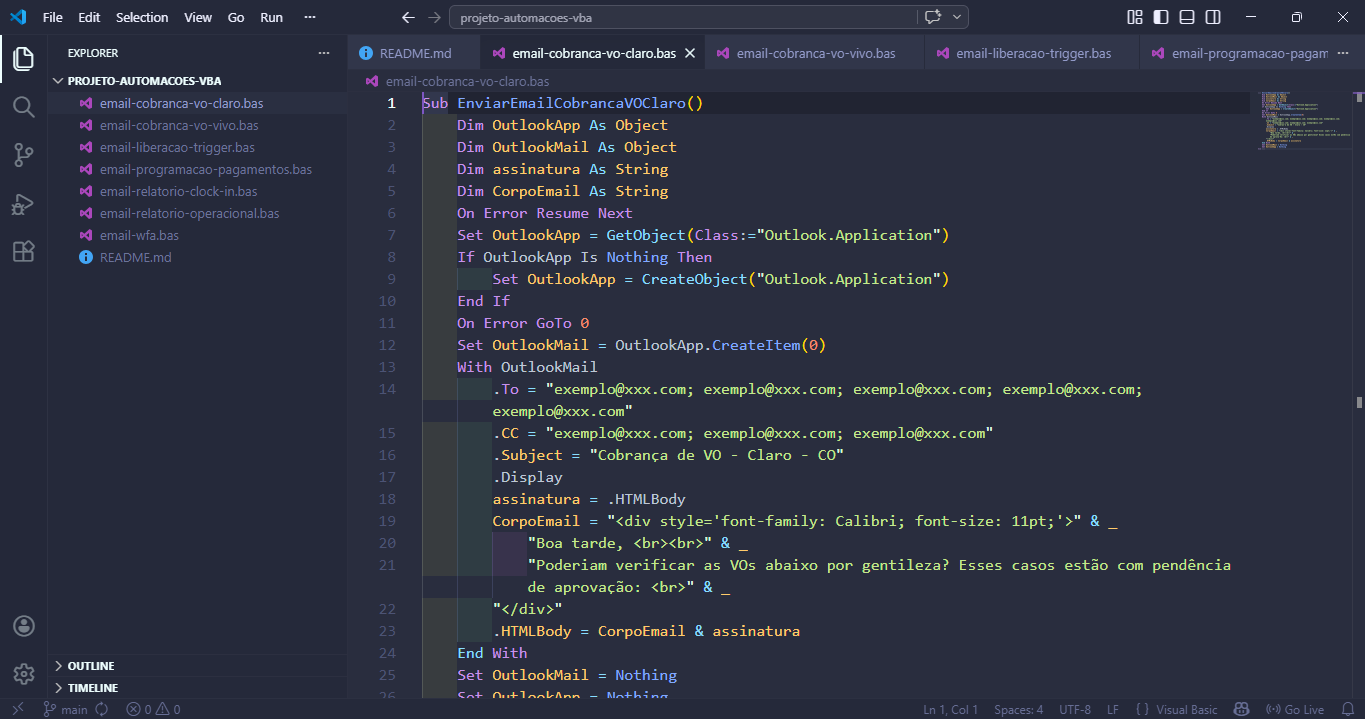
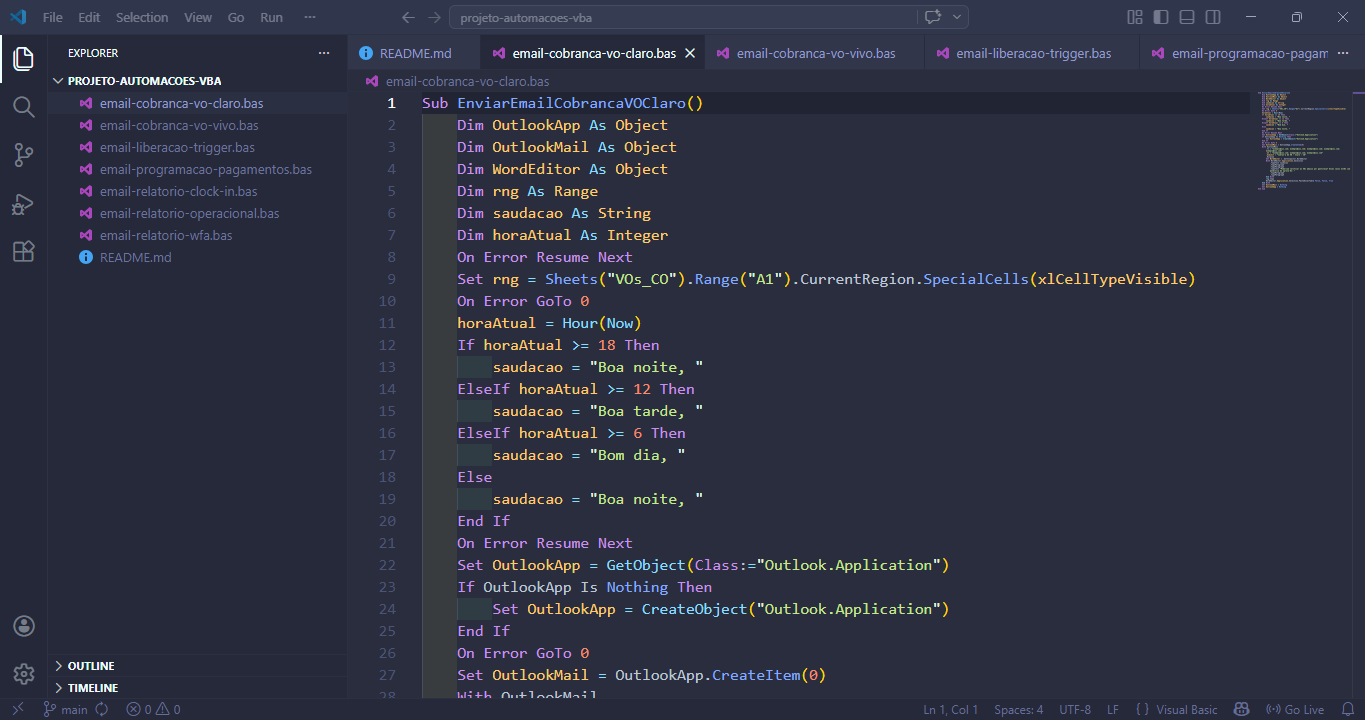
Teste

diff --git a/home.html b/home.html
@@ -309,7 +309,24 @@
                                 <div class="skill" data-percent="33">
                                     <div class="label">
                                         <span>
-                                            Hardware e redes de computadores <i class="fa-solid fa-computer"></i>
+                                            Hardware <i class="fa-solid fa-computer"></i>
+                                        </span>
+                                        <span class="percent">
+                                            0%
+                                        </span>
+                                    </div>
+                                    <div class="barra-interna">
+                                        <div class="bar"></div>
+                                    </div>
+                                </div>
+                            </div>
+                        </section>
+                        <section class="skills-section">
+                            <div class="skills">
+                                <div class="skill" data-percent="33">
+                                    <div class="label">
+                                        <span>
+                                            Redes de computadores <i class="fa-solid fa-wifi"></i>
                                         </span>
                                         <span class="percent">
                                             0%
@@ -327,6 +344,23 @@
                                     <div class="label">
                                         <span>
                                             Telecomunicações <i class="fa-solid fa-tower-cell"></i>
+                                        </span>
+                                        <span class="percent">
+                                            0%
+                                        </span>
+                                    </div>
+                                    <div class="barra-interna">
+                                        <div class="bar"></div>
+                                    </div>
+                                </div>
+                            </div>
+                        </section>
+                        <section class="skills-section">
+                            <div class="skills">
+                                <div class="skill" data-percent="33">
+                                    <div class="label">
+                                        <span>
+                                            AutoCAD <i class="fa-solid fa-compass-drafting"></i>
                                         </span>
                                         <span class="percent">
                                             0%
@@ -425,10 +459,10 @@
                         </section>
                         <section class="skills-section">
                             <div class="skills">
-                                <div class="skill" data-percent="33">
+                                <div class="skill" data-percent="66">
                                     <div class="label">
                                         <span>
-                                            GIMP <i class="fa-solid fa-image"></i>
+                                            Wix <i class="fa-brands fa-wix"></i>
                                         </span>
                                         <span class="percent">
                                             0%
@@ -459,10 +493,10 @@
                         </section>
                         <section class="skills-section">
                             <div class="skills">
-                                <div class="skill" data-percent="66">
+                                <div class="skill" data-percent="33">
                                     <div class="label">
                                         <span>
-                                            Wix <i class="fa-brands fa-wix"></i>
+                                            GIMP <i class="fa-solid fa-image"></i>
                                         </span>
                                         <span class="percent">
                                             0%